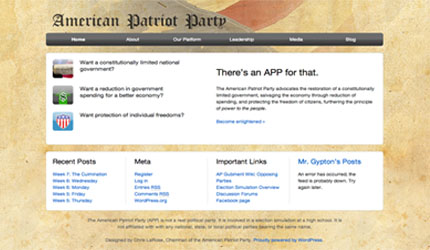
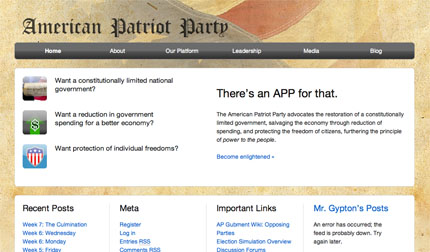
Vertically aligned everything

diff --git a/css/layout.css b/css/layout.css
@@ -2,6 +2,8 @@
 /* LAYOUT */
 /* ----------------------------------------- */
 
+/* Basic Rules */
+
 body {
     font-size: 87.5%;
     line-height: 1.5;
@@ -9,11 +11,14 @@ body {
     background-color: #eae7ca;
 }
 
-h1 {font-size:2em;margin-bottom:0.75em;}
-h2 {font-size:1.5em;line-height:1;margin-bottom:1em;}
-h3 {font-size:1.2em;line-height:1.25;margin-bottom:1.25em;}
-h4 {font-size:1em;font-weight:bold;margin-bottom:1.5em;}
-h5 {font-size:1em;font-weight:bold;}
+h1 {font-size:2em; line-height: 1.5; margin-bottom:0.75em;}
+h2 {font-size:1.5em; line-height:1; margin-bottom:1em;}
+h3 {font-size:1.2em; line-height:1.25; margin-bottom:1.25em;}
+h4 {font-size:1em; line-height: 1.5; font-weight:bold; margin-bottom:1.5em;}
+h5 {font-size:1em; line-height: 1.5; font-weight:bold; margin-bottom: 0;}
+
+a {text-decoration: none;}
+pre {white-space: pre-line;}
 
 /* Basic Layout */
 .container {
@@ -25,10 +30,11 @@ h5 {font-size:1em;font-weight:bold;}
 }
 #hd {
     margin-bottom: 0;
+    height: 6em;
 }
 #bd, #ft {
     background: transparent url('../images/main-body.png') repeat-y scroll left top;
-    margin: 1.5em 0 4.5em;
+    margin: 1.5em 0 42px;
     position: relative;
     float: left;
     padding-top: 1.5em;
@@ -50,10 +56,6 @@ h5 {font-size:1em;font-weight:bold;}
     margin-bottom: 4.5em;
 }
 
-/* Basic Rules */
-a {text-decoration: none;}
-pre {white-space: pre-line;}
-
 /* Home */
 body.home #bd {
     background: none;
@@ -66,7 +68,7 @@ body.home #bd:before, body.home #bd:after {
 }
 body.home #banner, body.home #from-my-blog {
     background: transparent url('../images/main-body.png') repeat-y scroll left top;
-    margin: 1.5em 0 4.5em;
+    margin: 1.5em 0 42px;
     position: relative;
     float: left;
     padding: 1.5em 47px;
@@ -85,6 +87,9 @@ body.home #banner:after, body.home #from-my-blog:after {
 }
 #banner h1 {
     margin-top: .75em;
+}
+#banner img {
+    float: left;
 }
 #from-my-blog article h3 {
     margin-bottom: 0;
@@ -161,6 +166,24 @@ body.home #banner:after, body.home #from-my-blog:after {
 }
 #site-list li {
     margin-bottom: 1.5em;
+    margin-right: 30px;
+}
+#site-list li.last {
+    margin-right: 0;
+}
+#site-list img {
+    float: left;
+}
+
+/* Vertical Ryythm Testing */
+.container.showgrid {
+    background: transparent url('../images/bp40x21.png') repeat scroll 7px top;
+}
+.showgrid * {
+    background-image: none !important;
+}
+.showgrid *:before, .showgrid *:after {
+    content: "";
 }
 
 

diff --git a/archive-site.php b/archive-site.php
@@ -21,8 +21,9 @@ get_header(); ?>
     ));
     ?>
     <ul id="site-list">
-    <?php if ( $post_query->have_posts() ) while ( $post_query->have_posts() ) : $post_query->the_post(); ?>
-        <li class="span-7">
+    <?php $counter = 0; ?>
+    <?php if ( $post_query->have_posts() ) while ( $post_query->have_posts() ) : $counter++; $post_query->the_post(); ?>
+        <li class="span-7<?php echo ($counter % 3 == 0)?" last":""; ?>">
         <h3><a href="<?php the_permalink(); ?>" title="<?php printf( esc_attr__( 'Permalink to %s', 'twentyten' ), the_title_attribute( 'echo=0' ) ); ?>" rel="bookmark"><?php the_title(); ?></a></h3>
         <?php $large_image_url = wp_get_attachment_image_src( get_post_thumbnail_id($post->ID), 'full'); ?>
         <a href="<?php echo $large_image_url[0]; ?>" rel="lightbox" title="<?php echo strip_tags(get_the_content()); ?>">

diff --git a/custom-home.php b/custom-home.php
@@ -40,9 +40,8 @@ get_header(); ?>
             <article>
             <h3><a href="<?php the_permalink(); ?>" title="<?php printf( esc_attr__( 'Permalink to %s', 'twentyten' ), the_title_attribute( 'echo=0' ) ); ?>" rel="bookmark"><?php the_title(); ?></a></h3>
             
-            <p class="post-meta">
-                <?php echo get_the_date(); ?> | <?php comments_number( 'No comments', '1 comment', '% comments' ); ?>
-            </p>
+            <p class="post-meta"><?php echo get_the_date(); ?> | <?php comments_number( 'No comments', '1 comment', '% comments' ); ?></p>
+            
             <?php the_excerpt(); ?>
             </article>
         

diff --git a/functions.php b/functions.php
@@ -525,8 +525,8 @@ add_action( 'init', 'create_post_types' );
 function create_post_types() {
 	
 	add_image_size('site-thumbnail', 150, 101, true);
-	add_image_size('site-medium', 190, 137, true);
-	add_image_size('site-large', 270, 179, true);
+	add_image_size('site-medium', 190, 147, true);
+	add_image_size('site-large', 270, 189, true);
 
 	register_post_type('site', array(
 	'label' => 'Sites',
